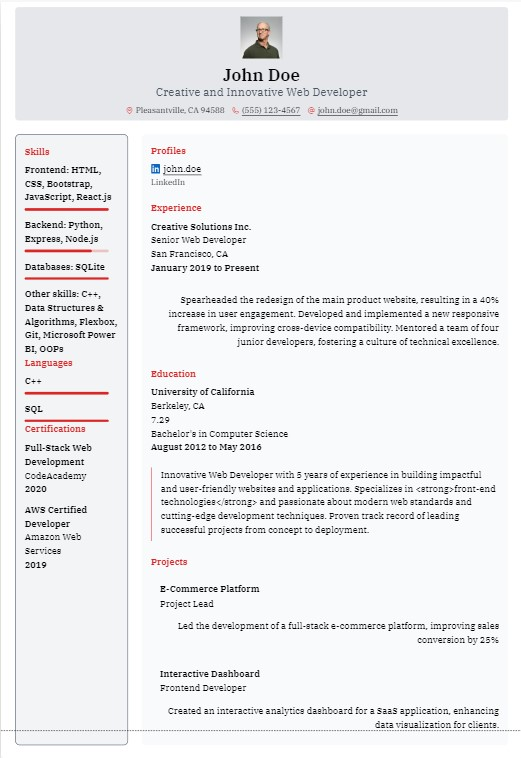
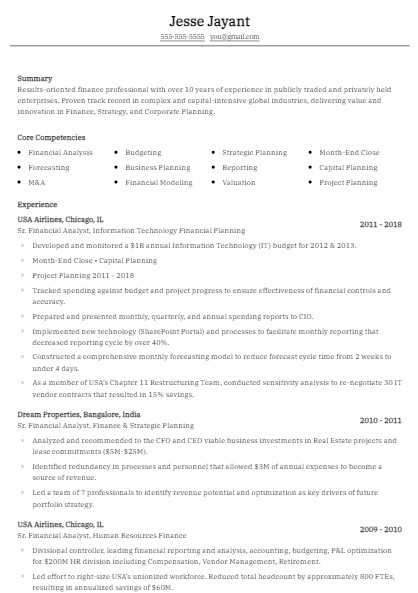
orion template

Changed region(s): [[0.0, 0.0, 0.9952, 1.0], [0.7775, 0.2428, 0.9019, 0.3339], [0.5287, 0.2428, 0.6842, 0.3339]]

diff --git a/apps/artboard/src/templates/orion.tsx b/apps/artboard/src/templates/orion.tsx
@@ -29,24 +29,16 @@ import {
     const basics = useArtboardStore((state) => state.resume.basics);
   
     return (
-      <div className="flex flex-col items-center justify-center space-y-2 pb-2 text-center bg-gray-200 p-4 rounded-md">
-        <Picture />
-  
+      <div className="flex flex-col items-center justify-center space-y-2 pb-2 text-center border-b-2 border-gray-600">
+        
         <div>
-          <div className="text-3xl font-bold">{basics.name}</div>
+          <div className="text-3xl font-bold font-roboto">{basics.name}</div>
           <div className="text-xl text-gray-600">{basics.headline}</div>
         </div>
   
         <div className="flex flex-wrap items-center gap-3 text-sm">
-          {basics.location && (
-            <div className="flex items-center gap-1">
-              <i className="ph ph-map-pin text-primary" />
-              <div>{basics.location}</div>
-            </div>
-          )}
           {basics.phone && (
             <div className="flex items-center gap-1">
-              <i className="ph ph-phone text-primary" />
               <a href={`tel:${basics.phone}`} target="_blank" rel="noreferrer">
                 {basics.phone}
               </a>
@@ -54,23 +46,16 @@ import {
           )}
           {basics.email && (
             <div className="flex items-center gap-1">
-              <i className="ph ph-at text-primary" />
               <a href={`mailto:${basics.email}`} target="_blank" rel="noreferrer">
                 {basics.email}
               </a>
             </div>
           )}
-          <Link url={basics.url} />
-          {basics.customFields.map((item) => (
-            <div key={item.id} className="flex items-center gap-1">
-              <i className={`ph ph-${item.icon} text-primary`} />
-              <span>{[item.name, item.value].filter(Boolean).join(": ")}</span>
-            </div>
-          ))}
         </div>
       </div>
     );
   };
+  
   
   const Summary = () => {
     const section = useArtboardStore((state) => state.resume.sections.summary);
@@ -78,26 +63,13 @@ import {
     if (!section.visible || isEmptyString(section.content)) return null;
   
     return (
-      <section id={section.id}>
-        <div className="mb-2 hidden font-bold text-primary group-[.main]:block">
-          <h4>{section.name}</h4>
-        </div>
-  
-        <div className="mb-2 hidden items-center gap-x-2 text-center font-bold text-primary group-[.sidebar]:flex">
-          <div className="h-1.5 w-1.5 rounded-full border border-primary" />
-          <h4>{section.name}</h4>
-          <div className="h-1.5 w-1.5 rounded-full border border-primary" />
-        </div>
-  
-        <main className={cn("relative space-y-2", "border-l border-primary pl-4")}>
-          <div className="absolute left-[-4.5px] top-[8px] hidden h-[8px] w-[8px] rounded-full bg-primary group-[.main]:block" />
-  
-          <div
-            className="wysiwyg"
-            style={{ columns: section.columns }}
-            dangerouslySetInnerHTML={{ __html: section.content }}
-          />
-        </main>
+      <section id={section.id} className="mt-4">
+        <h4 className="font-bold ">Summary</h4>
+        <div
+          className="wysiwyg"
+          style={{ columns: section.columns }}
+          dangerouslySetInnerHTML={{ __html: section.content }}
+        />
       </section>
     );
   };
@@ -162,7 +134,7 @@ import {
   
     return (
       <section id={section.id} className="grid">
-        <div className="mb-2  font-bold text-primary group-[.main]:block">
+        <div className="mb-2  font-bold  group-[.main]:block">
           <h4>{section.name}</h4>
         </div>
   
@@ -253,14 +225,19 @@ import {
   
     return (
       <Section<Experience> section={section} urlKey="url" summaryKey="summary">
+        
         {(item) => (
-          <div>
-
+          <div className="flex items-center justify-between">
+          <div className="text-left">
             <div className="font-bold">{item.company}</div>
             <div>{item.position}</div>
             <div>{item.location}</div>
+          </div>
+
+          <div className="shrink-0 text-right">
             <div className="font-bold">{item.date}</div>
           </div>
+        </div>
         )}
       </Section>
     );
@@ -272,13 +249,18 @@ import {
     return (
       <Section<Education> section={section} urlKey="url" summaryKey="summary">
         {(item) => (
-          <div>
+          <div className="flex items-center justify-between">
+          <div className="text-left">
             <div className="font-bold">{item.institution}</div>
             <div>{item.area}</div>
             <div>{item.score}</div>
-            <div>{item.studyType}</div>
-            <div className="font-bold">{item.date}</div>
           </div>
+
+          <div className="shrink-0 text-right">
+            <div className="font-bold">{item.date}</div>
+            <div>{item.studyType}</div>
+          </div>
+        </div>
         )}
       </Section>
     );
@@ -316,18 +298,18 @@ import {
     );
   };
   
-  const Skills = () => {
+  const CoreCompetencies = () => {
     const section = useArtboardStore((state) => state.resume.sections.skills);
   
     return (
-      <Section<Skill> section={section} levelKey="level" keywordsKey="keywords">
-        {(item) => (
-          <div>
-            <div className="font-bold">{item.name}</div>
-            <div>{item.description}</div>
-          </div>
-        )}
-      </Section>
+      <section id={section.id} className="mt-4">
+        <h4 className="font-bold">Core Competencies</h4>
+        <ul className="mt-2 grid grid-cols-4 gap-2 list-disc list-inside">
+          {section.items.map((item) => (
+            <li key={item.id}>{item.name}</li>
+          ))}
+        </ul>
+      </section>
     );
   };
   
@@ -464,7 +446,7 @@ import {
       case "certifications":
         return <Certifications />;
       case "skills":
-        return <Skills />;
+        return <CoreCompetencies/>;
       case "interests":
         return <Interests />;
       case "publications":
@@ -485,34 +467,24 @@ import {
   };
   
   export const Orion = ({ columns, isFirstPage = false }: TemplateProps) => {
-    const [main, sidebar] = columns;
+    const [main,sidebar] = columns;
   
     return (
       <div className="p-6 space-y-6 bg-white shadow-lg rounded-lg">
         {isFirstPage && <Header />}
   
-        <div className="grid grid-cols-4 gap-6">
-          <div className="col-span-1 bg-gray-100 p-4 rounded-lg border border-slate-600">
-            {sidebar.map((section) => (
-              <Fragment key={section}>
-                    
-                    {mapSectionToComponent(section)}
-                    
-          </Fragment>
-              
-            ))}
-          </div>
-  
-          <div className="col-span-3 bg-gray-50 p-4 rounded-lg space-y-6">
-            {main.map((section) => (
-              <Fragment key={section}>
-                        
-                        {mapSectionToComponent(section)}
-                        
-              </Fragment>
-            ))}
-          </div>
+        
+        <div className="col-span-3  p-4 rounded-lg space-y-6">
+          {main.map((section) => (
+            <Fragment key={section}>
+                      
+                      {mapSectionToComponent(section)}
+                      
+            </Fragment>
+          ))}
         </div>
+        
       </div>
+      
     );
   };
